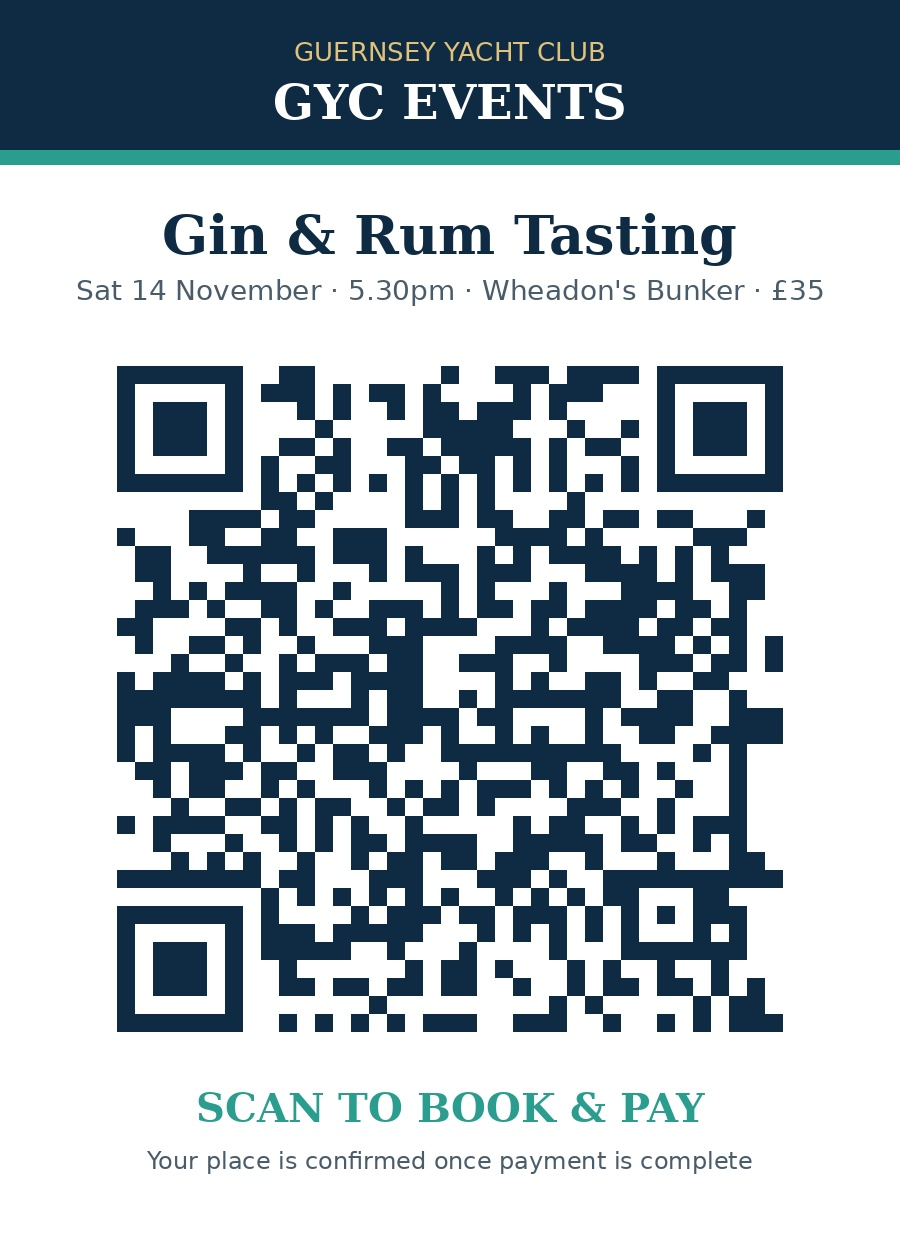
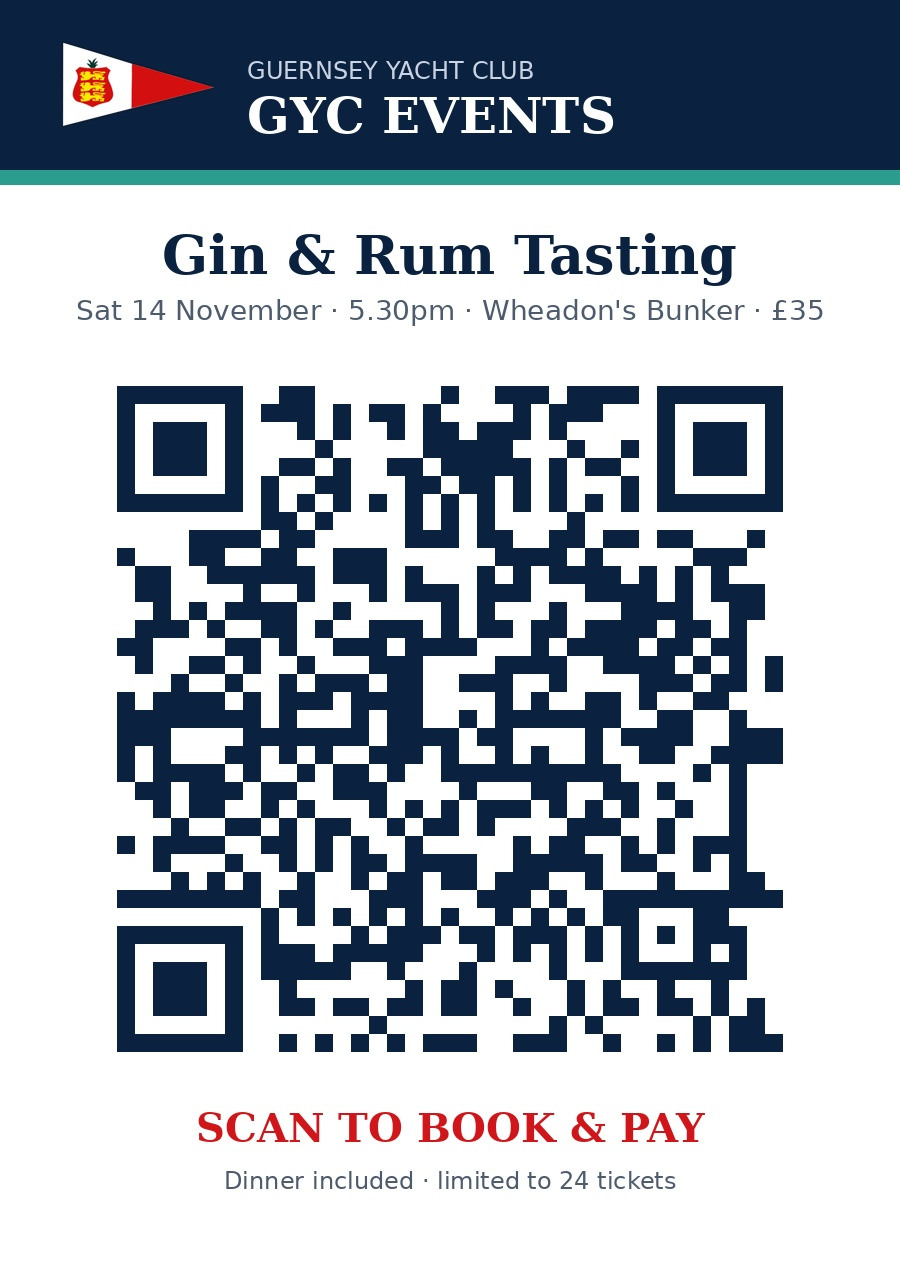
New colour scheme drawn from the club burgee
Navy + gold was the stock nautical look; the burgee is navy, red and white.

- One system across events: sea navy structures the page, burgee red is
  the single "commit" colour (every Pay button, on every event), white
  carries content on a cool chart-grey ground. Gold is gone.
- Each event keeps an identity hue (Halloween pumpkin on plum, Gin & Rum
  juniper, Christmas holly on navy) used only for the hero, tab marker,
  menu rules and availability bar.
- Hero: gradient washes replaced by a flat field with a burgee-shaped
  cut in the event hue; price badge is white for contrast.
- Same palette applied to the confirmation page, admin, emails and the
  regenerated QR cards (now carrying the burgee).

Claude-Session: https://claude.ai/code/session_01ATBDepRMN76MsErZuNFhf7

diff --git a/index.html b/index.html
@@ -10,27 +10,27 @@
   <link href="https://fonts.googleapis.com/css2?family=Playfair+Display:wght@600;700;800&family=Inter:wght@400;500;600;700&display=swap" rel="stylesheet" />
   <style>
     :root {
-      --navy: #0f2a43;
-      --navy-dark: #0a1c2e;
-      --navy-mid: #17405f;
-      --gold: #e0c27a;
-      --gold-deep: #c9a24a;
-      --paper: #f3f6f9;
-      --ink: #14222e;
-      --ink-soft: #4a5b69;
-      --line: #d9e1e8;
-      --ok: #2f7d4a;
+      /* Burgee palette: sea navy structures, signal red commits, white sail carries content. */
+      --sea: #0a2240;
+      --sea-deep: #061528;
+      --sea-mid: #123a63;
+      --flag: #d0161b;          /* the burgee's red — every Pay button, every event */
+      --flag-dark: #a90f14;
+      --flag-bright: #ff6a6e;   /* the same red, lifted to read on navy */
+      --chart: #ebf0f5;         /* page ground: cool chart paper */
+      --ink: #14202e;
+      --ink-soft: #4d5b6d;
+      --line: #d6dde6;
       --err: #a3372f;
-      /* per-event accent, overridden on each panel */
-      --accent: var(--gold-deep);
-      --accent-dark: #8a6d28;
-      --hero-from: var(--navy-dark);
-      --hero-to: var(--navy-mid);
+      /* per-event identity (hero field, pennant, tab marker, menu rule) — overridden per panel */
+      --accent: var(--sea-mid);
+      --accent-ink: var(--sea-mid);   /* the accent as text/rules on white */
+      --hero: var(--sea);
       color-scheme: light;
     }
     * { box-sizing: border-box; }
     html { scroll-behavior: smooth; }
-    html, body { margin: 0; background: var(--paper); color: var(--ink); font-family: 'Inter', system-ui, sans-serif; -webkit-font-smoothing: antialiased; }
+    html, body { margin: 0; background: var(--chart); color: var(--ink); font-family: 'Inter', system-ui, sans-serif; -webkit-font-smoothing: antialiased; }
     h1, h2, h3 { font-family: 'Playfair Display', Georgia, serif; margin: 0; }
 
     /* ---------------- Intro ---------------- */
@@ -57,10 +57,10 @@
     .boat-bob { transform-origin: 90px 120px; animation: bob 1.6s ease-in-out infinite; }
     @keyframes bob { 0%,100% { transform: rotate(-3deg) translateY(0); } 50% { transform: rotate(3deg) translateY(-5px); } }
     .intro-text { position: relative; text-align: center; color: #fff; padding: 0 20px; margin-top: -8vh; }
-    .intro-text .club { font-family: 'Inter'; font-size: clamp(11px, 2.4vw, 15px); letter-spacing: .5em; text-transform: uppercase; color: var(--gold); opacity: 0; animation: rise .9s ease 1.1s forwards; }
+    .intro-text .club { font-family: 'Inter'; font-size: clamp(11px, 2.4vw, 15px); letter-spacing: .5em; text-transform: uppercase; color: var(--flag-bright); opacity: 0; animation: rise .9s ease 1.1s forwards; }
     .intro-text .big { font-family: 'Playfair Display', serif; font-weight: 800; font-size: clamp(64px, 22vw, 150px); line-height: 1; letter-spacing: .04em; margin-top: 10px; }
     .intro-text .big .line { white-space: nowrap; }
-    .intro-text .big .line:last-child { font-size: .62em; letter-spacing: .12em; color: var(--gold); margin-top: 4px; }
+    .intro-text .big .line:last-child { font-size: .62em; letter-spacing: .12em; color: var(--flag-bright); margin-top: 4px; }
     .intro-text .big span { display: inline-block; opacity: 0; transform: translateY(40px) scale(.9); animation: letter .7s cubic-bezier(.2,.9,.3,1.2) forwards; }
     .intro-text .tag { margin-top: 16px; font-size: clamp(13px, 3vw, 17px); color: #c6d4e0; opacity: 0; animation: rise .9s ease 2.9s forwards; }
     @keyframes rise { from { opacity: 0; transform: translateY(14px); } to { opacity: 1; transform: none; } }
@@ -69,62 +69,65 @@
     #skip:hover { background: rgba(255,255,255,.22); }
 
     /* ---------------- Page chrome ---------------- */
-    header.site { background: var(--navy); color: #fff; padding: 20px 16px 0; }
+    header.site { background: var(--sea); color: #fff; padding: 20px 16px 0; }
     .site-inner { max-width: 880px; margin: 0 auto; }
     .brand { display: flex; align-items: center; gap: 12px; padding-bottom: 18px; }
     .brand svg { width: 38px; height: 38px; flex: none; }
     .brand b { font-family: 'Playfair Display', serif; font-size: 22px; display: block; line-height: 1.1; }
-    .brand span { font-size: 11.5px; letter-spacing: .24em; text-transform: uppercase; color: var(--gold); }
+    .brand span { font-size: 11.5px; letter-spacing: .24em; text-transform: uppercase; color: rgba(255,255,255,.72); }
 
-    nav.tabs { position: sticky; top: 0; z-index: 20; background: var(--navy); display: flex; gap: 6px; overflow-x: auto; padding: 0 16px 0; margin: 0 -16px; scrollbar-width: none; box-shadow: 0 6px 14px -10px rgba(0,0,0,.6); }
+    nav.tabs { position: sticky; top: 0; z-index: 20; background: var(--sea); display: flex; gap: 6px; overflow-x: auto; padding: 0 16px 0; margin: 0 -16px; scrollbar-width: none; box-shadow: 0 6px 14px -10px rgba(0,0,0,.6); }
     nav.tabs::-webkit-scrollbar { display: none; }
     .tab { flex: 1 0 auto; min-width: 150px; text-align: left; cursor: pointer; border: 0; background: rgba(255,255,255,.07); color: #c6d4e0; padding: 13px 18px 12px; border-radius: 12px 12px 0 0; font: inherit; border-bottom: 4px solid transparent; transition: background .2s, color .2s; }
     .tab:hover { background: rgba(255,255,255,.14); color: #fff; }
     .tab .t { display: block; font-family: 'Playfair Display', serif; font-weight: 700; font-size: 16px; color: inherit; }
     .tab .d { display: block; font-size: 12px; margin-top: 2px; opacity: .85; }
-    .tab[aria-selected="true"] { background: var(--paper); color: var(--ink); border-bottom-color: var(--tab-accent, var(--gold-deep)); }
-    .tab[data-event="halloween"] { --tab-accent: #e8731a; }
+    .tab[aria-selected="true"] { background: var(--chart); color: var(--ink); border-bottom-color: var(--tab-accent, var(--flag)); }
+    .tab[data-event="halloween"] { --tab-accent: #e8741a; }
     .tab[data-event="gin-rum"] { --tab-accent: #2a9d8f; }
-    .tab[data-event="christmas-lunch"] { --tab-accent: #d0161b; }
+    .tab[data-event="christmas-lunch"] { --tab-accent: #3f8f5e; }
 
     main { max-width: 880px; margin: 0 auto; padding: 0 16px 60px; }
     .panel[hidden] { display: none; }
-    .panel[data-event="halloween"] { --accent: #e8731a; --accent-dark: #b4560d; --hero-from: #150a1c; --hero-to: #4a1f3a; }
-    .panel[data-event="christmas-lunch"] { --accent: #d0161b; --accent-dark: #a30f13; --hero-from: #081a30; --hero-to: #0a2240; }
-    .panel[data-event="gin-rum"] { --accent: #2a9d8f; --accent-dark: #1d6f65; --hero-from: #0a2a2c; --hero-to: #14515a; }
+    .panel[data-event="halloween"] { --accent: #e8741a; --accent-ink: #b4560d; --hero: #24102e; }
+    .panel[data-event="gin-rum"] { --accent: #2a9d8f; --accent-ink: #1d6f65; --hero: #08282b; }
+    .panel[data-event="christmas-lunch"] { --accent: #3f8f5e; --accent-ink: #2f6b45; --hero: #0a2240; }
 
-    .hero { margin: 0 -16px; padding: 38px 24px 34px; background: radial-gradient(circle at 85% 10%, rgba(255,255,255,.12), transparent 45%), linear-gradient(150deg, var(--hero-from), var(--hero-to)); color: #fff; text-align: center; border-radius: 0 0 26px 26px; position: relative; overflow: hidden; }
-    .hero .eyebrow { font-size: 12px; letter-spacing: .3em; text-transform: uppercase; color: var(--accent); font-weight: 700; filter: brightness(1.45); }
+    .hero { margin: 0 -16px; padding: 38px 24px 36px; background: var(--hero); color: #fff; text-align: center; border-radius: 0; position: relative; overflow: hidden; isolation: isolate; }
+    /* a burgee-shaped cut of the event's colour: the one bold thing on the page */
+    .hero::before { content: ''; position: absolute; z-index: -1; top: 0; bottom: 0; right: 0; width: 34%; background: var(--accent); clip-path: polygon(100% 0, 100% 100%, 0 100%, 100% 0); opacity: .9; }
+    @media (max-width: 560px) { .hero::before { width: 38%; } }
+    .hero .eyebrow { font-size: 12px; letter-spacing: .3em; text-transform: uppercase; color: #fff; font-weight: 700; opacity: .85; }
     .hero h2 { font-size: clamp(30px, 7vw, 46px); line-height: 1.1; margin: 10px 0 8px; }
     .hero .sub { color: rgba(255,255,255,.82); font-size: 15px; max-width: 520px; margin: 0 auto; line-height: 1.55; }
     .chips { display: flex; flex-wrap: wrap; justify-content: center; gap: 9px; margin-top: 20px; }
     .chip { background: rgba(255,255,255,.12); border: 1px solid rgba(255,255,255,.3); border-radius: 999px; padding: 8px 15px; font-size: 13.5px; font-weight: 600; }
-    .price-badge { display: inline-block; margin-top: 20px; background: var(--accent); color: #fff; font-family: 'Playfair Display', serif; font-weight: 700; font-size: 20px; padding: 10px 28px; border-radius: 999px; box-shadow: 0 8px 20px rgba(0,0,0,.28); }
+    .price-badge { display: inline-block; margin-top: 20px; background: #fff; color: var(--sea); font-family: 'Playfair Display', serif; font-weight: 700; font-size: 20px; padding: 10px 28px; border-radius: 999px; box-shadow: 0 6px 16px rgba(0,0,0,.25); }
     .hero .burgee { display: block; width: 150px; height: auto; margin: 0 auto 18px; filter: drop-shadow(0 6px 14px rgba(0,0,0,.4)); }
     .menu-course { margin-top: 18px; }
-    .menu-course h4 { font: 700 17px 'Playfair Display', serif; color: var(--navy); margin: 0 0 2px; }
+    .menu-course h4 { font: 700 17px 'Playfair Display', serif; color: var(--sea); margin: 0 0 2px; }
     .menu-course .pick { font-size: 13px; color: var(--ink-soft); margin: 0 0 8px; }
-    .menu-course ul { list-style: none; margin: 0; padding: 0; border-top: 3px solid var(--accent); }
+    .menu-course ul { list-style: none; margin: 0; padding: 0; border-top: 3px solid var(--accent-ink); }
     .menu-course li { padding: 12px 0; border-bottom: 1px solid var(--line); }
     .menu-course .dish { font-weight: 700; font-size: 15px; line-height: 1.3; }
     .menu-course .desc { color: var(--ink-soft); font-size: 13.5px; line-height: 1.45; margin-top: 3px; }
     .tag { display: inline-block; font-weight: 700; font-size: 11px; line-height: 1; color: #2f6b45; border: 1.5px solid #2f6b45; border-radius: 999px; padding: 3px 7px 2px; margin-left: 6px; vertical-align: 2px; }
     .menu-key { margin: 14px 0 0; font-size: 13px; color: var(--ink-soft); line-height: 1.5; }
-    .deco { position: absolute; font-size: 54px; opacity: .13; user-select: none; pointer-events: none; }
+    .deco { position: absolute; font-size: 54px; opacity: .16; user-select: none; pointer-events: none; }
 
     .card { background: #fff; border: 1px solid var(--line); border-radius: 16px; padding: 22px; margin-top: 18px; }
-    .card h3 { font-size: 18px; margin-bottom: 12px; color: var(--navy); }
+    .card h3 { font-size: 18px; margin-bottom: 12px; color: var(--sea); }
     .facts { list-style: none; margin: 0; padding: 0; display: grid; gap: 11px; }
     .facts li { display: flex; gap: 12px; align-items: flex-start; font-size: 14.5px; line-height: 1.5; }
     .facts .i { flex: none; width: 30px; height: 30px; border-radius: 9px; display: grid; place-items: center; background: color-mix(in srgb, var(--accent) 16%, white); font-size: 16px; }
-    .callout { margin-top: 16px; padding: 13px 16px; border-left: 4px solid var(--accent); background: color-mix(in srgb, var(--accent) 9%, white); border-radius: 8px; font-size: 14px; line-height: 1.55; }
+    .callout { margin-top: 16px; padding: 13px 16px; border-left: 4px solid var(--accent-ink); background: color-mix(in srgb, var(--accent) 9%, white); border-radius: 8px; font-size: 14px; line-height: 1.55; }
 
     .avail { margin-top: 18px; background: #fff; border: 1px solid var(--line); border-radius: 16px; padding: 18px 22px; }
     .avail-top { display: flex; justify-content: space-between; align-items: baseline; flex-wrap: wrap; gap: 8px; }
-    .avail .count { font-family: 'Playfair Display', serif; font-weight: 700; font-size: 28px; color: var(--navy); }
+    .avail .count { font-family: 'Playfair Display', serif; font-weight: 700; font-size: 28px; color: var(--sea); }
     .avail .label { font-size: 13px; color: var(--ink-soft); }
     .bar { margin-top: 12px; height: 10px; border-radius: 999px; background: #e4ebf1; overflow: hidden; }
-    .bar i { display: block; height: 100%; width: 0; background: var(--accent); border-radius: 999px; transition: width .5s ease; }
+    .bar i { display: block; height: 100%; width: 0; background: var(--accent-ink); border-radius: 999px; transition: width .5s ease; }
 
     form { display: grid; gap: 14px; }
     .two { display: grid; grid-template-columns: 1fr 1fr; gap: 14px; }
@@ -133,7 +136,7 @@
     .field label { font-size: 13px; font-weight: 600; }
     .hint { font-weight: 400; color: var(--ink-soft); }
     input, select, textarea { font: inherit; font-size: 15px; padding: 11px 13px; border: 1px solid #c8d3dd; border-radius: 10px; background: #fff; color: var(--ink); width: 100%; }
-    input:focus, select:focus, textarea:focus { outline: 2px solid var(--accent); outline-offset: 1px; border-color: var(--accent); }
+    input:focus, select:focus, textarea:focus { outline: 2px solid var(--sea); outline-offset: 1px; border-color: var(--sea); }
     textarea { resize: vertical; min-height: 64px; }
     .meals { display: grid; gap: 10px; padding: 14px; border-radius: 12px; background: color-mix(in srgb, var(--accent) 7%, white); border: 1px dashed color-mix(in srgb, var(--accent) 55%, white); }
     .meals > b { font-size: 13px; }
@@ -141,8 +144,9 @@
     .meal-guest:last-child { border-bottom: 0; padding-bottom: 0; }
     .meal-guest > span { font-weight: 600; font-size: 13.5px; }
     .meal-row { display: grid; grid-template-columns: 70px 1fr; gap: 10px; align-items: center; font-size: 13.5px; }
-    button.pay { background: var(--accent); color: #fff; border: 0; border-radius: 12px; padding: 15px 20px; font: 700 17px 'Playfair Display', serif; cursor: pointer; transition: filter .15s, transform .1s; }
-    button.pay:hover { filter: brightness(.92); }
+    button.pay { background: var(--flag); color: #fff; border: 0; border-radius: 12px; padding: 15px 20px; font: 700 17px 'Playfair Display', serif; cursor: pointer; transition: filter .15s, transform .1s; }
+    button.pay:hover { background: var(--flag-dark); }
+    button.pay:focus-visible, .tab:focus-visible, #skip:focus-visible { outline: 3px solid var(--sea); outline-offset: 2px; }
     button.pay:active { transform: translateY(1px); }
     button.pay:disabled { background: #a9b6c2; cursor: not-allowed; }
     .secure { font-size: 12.5px; color: var(--ink-soft); text-align: center; line-height: 1.5; margin: 0; }
@@ -152,13 +156,13 @@
     .full.show { display: block; }
 
     footer.site { text-align: center; padding: 28px 16px 40px; font-size: 12.5px; color: var(--ink-soft); line-height: 1.7; }
-    footer.site a { color: var(--navy-mid); }
+    footer.site a { color: var(--sea); }
 
     @media (prefers-reduced-motion: reduce) {
       .wave-a, .wave-b, .wave-c, .boat-bob, .star, .moon { animation: none; }
       .boat { animation: none; transform: translateX(380px); }
       .intro-text .club, .intro-text .tag, .intro-text .big .line { white-space: nowrap; }
-    .intro-text .big .line:last-child { font-size: .62em; letter-spacing: .12em; color: var(--gold); margin-top: 4px; }
+    
     .intro-text .big span { animation: none; opacity: 1; transform: none; }
       html { scroll-behavior: auto; }
     }
@@ -178,11 +182,11 @@
       <rect y="300" width="800" height="150" fill="url(#sea)"/>
       <g class="boat" transform="translate(0,0)"><g transform="translate(0,222)"><g class="boat-bob">
         <path d="M20 118 H160 L142 146 H44 Z" fill="#f4efe2"/>
-        <path d="M20 118 H160" stroke="#c9a24a" stroke-width="4"/>
+        <path d="M20 118 H160" stroke="#d0161b" stroke-width="4"/>
         <rect x="88" y="14" width="4" height="106" fill="#e8e0cc"/>
         <path d="M94 18 L94 112 L152 112 Z" fill="#ffffff"/>
-        <path d="M86 28 L86 112 L36 112 Z" fill="#e0c27a"/>
-        <path d="M88 14 l16 6 l-16 6 z" fill="#c0392b"/>
+        <path d="M86 28 L86 112 L36 112 Z" fill="#d0161b"/>
+        <path d="M88 14 l16 6 l-16 6 z" fill="#ff6a6e"/>
       </g></g></g>
       <g class="wave-c" opacity=".55"><path d="M0 330 q50 -18 100 0 t100 0 t100 0 t100 0 t100 0 t100 0 t100 0 t100 0 t100 0 t100 0 t100 0 t100 0 t100 0 t100 0 t100 0 t100 0 V450 H0 Z" fill="#2b6d94"/></g>
       <g class="wave-b" opacity=".8"><path d="M0 350 q50 -22 100 0 t100 0 t100 0 t100 0 t100 0 t100 0 t100 0 t100 0 t100 0 t100 0 t100 0 t100 0 t100 0 t100 0 t100 0 t100 0 V450 H0 Z" fill="#164a6e"/></g>
@@ -200,7 +204,7 @@
   <header class="site">
     <div class="site-inner">
       <div class="brand">
-        <svg viewBox="0 0 40 40" aria-hidden="true"><circle cx="20" cy="20" r="19" fill="none" stroke="#e0c27a" stroke-width="2"/><path d="M19 7 V30 H8 Z" fill="#fff"/><path d="M21 11 V30 H33 Z" fill="#e0c27a"/><path d="M6 33 q7 -4 14 0 t14 0" fill="none" stroke="#e0c27a" stroke-width="2"/></svg>
+        <svg viewBox="0 0 40 40" aria-hidden="true"><circle cx="20" cy="20" r="19" fill="none" stroke="#fff" stroke-opacity=".45" stroke-width="2"/><path d="M19 7 V30 H8 Z" fill="#fff"/><path d="M21 11 V30 H33 Z" fill="#d0161b"/><path d="M6 33 q7 -4 14 0 t14 0" fill="none" stroke="#fff" stroke-opacity=".6" stroke-width="2"/></svg>
         <div><b>GYC Events</b><span>Guernsey Yacht Club</span></div>
       </div>
       <nav class="tabs" id="tabs" role="tablist" aria-label="Choose an event"></nav>

diff --git a/confirmed.html b/confirmed.html
@@ -9,16 +9,16 @@
   <link href="https://fonts.googleapis.com/css2?family=Playfair+Display:wght@600;700;800&family=Inter:wght@400;500;600;700&display=swap" rel="stylesheet" />
   <style>
     :root {
-      --wine: #0f2a43;
-      --wine-dark: #0a1c2e;
-      --wine-light: #17405f;
-      --gold: #c9a24a;
-      --gold-light: #e0c27a;
-      --cream: #f3f6f9;
-      --ink: #14222e;
-      --ink-soft: #4a5b69;
-      --line: #d9e1e8;
-      --ok: #2f7d4a;
+      --wine: #0a2240;
+      --wine-dark: #061528;
+      --wine-light: #123a63;
+      --gold: #d0161b;
+      --gold-light: #ff6a6e;
+      --cream: #ebf0f5;
+      --ink: #14202e;
+      --ink-soft: #4d5b6d;
+      --line: #d6dde6;
+      --ok: #2f6b45;
       --err: #a3372f;
       color-scheme: light;
     }
@@ -60,10 +60,10 @@
 
     a.solid {
       display: block; margin-top: 18px; text-decoration: none; text-align: center;
-      background: var(--wine); color: #fff; font-family: 'Playfair Display', serif; font-weight: 700;
+      background: var(--gold); color: #fff; font-family: 'Playfair Display', serif; font-weight: 700;
       padding: 12px 18px; border-radius: 12px;
     }
-    a.solid:hover { background: var(--wine-light); }
+    a.solid:hover { background: #a90f14; }
 
     footer { text-align: center; margin-top: 26px; font-size: 12.5px; color: var(--ink-soft); }
     footer a { color: var(--wine); }

diff --git a/admin.html b/admin.html
@@ -10,15 +10,15 @@
   <link href="https://fonts.googleapis.com/css2?family=Playfair+Display:wght@600;700;800&family=Inter:wght@400;500;600;700&display=swap" rel="stylesheet" />
   <style>
     :root {
-      --wine: #0f2a43;
-      --wine-dark: #0a1c2e;
-      --wine-light: #17405f;
-      --gold: #c9a24a;
-      --gold-light: #e0c27a;
-      --cream: #f3f6f9;
-      --ink: #14222e;
-      --ink-soft: #4a5b69;
-      --line: #d9e1e8;
+      --wine: #0a2240;
+      --wine-dark: #061528;
+      --wine-light: #123a63;
+      --gold: #d0161b;
+      --gold-light: #ff6a6e;
+      --cream: #ebf0f5;
+      --ink: #14202e;
+      --ink-soft: #4d5b6d;
+      --line: #d6dde6;
       --ok: #3f7d4f;
       --err: #a3372f;
       --warn: #8a6415;
